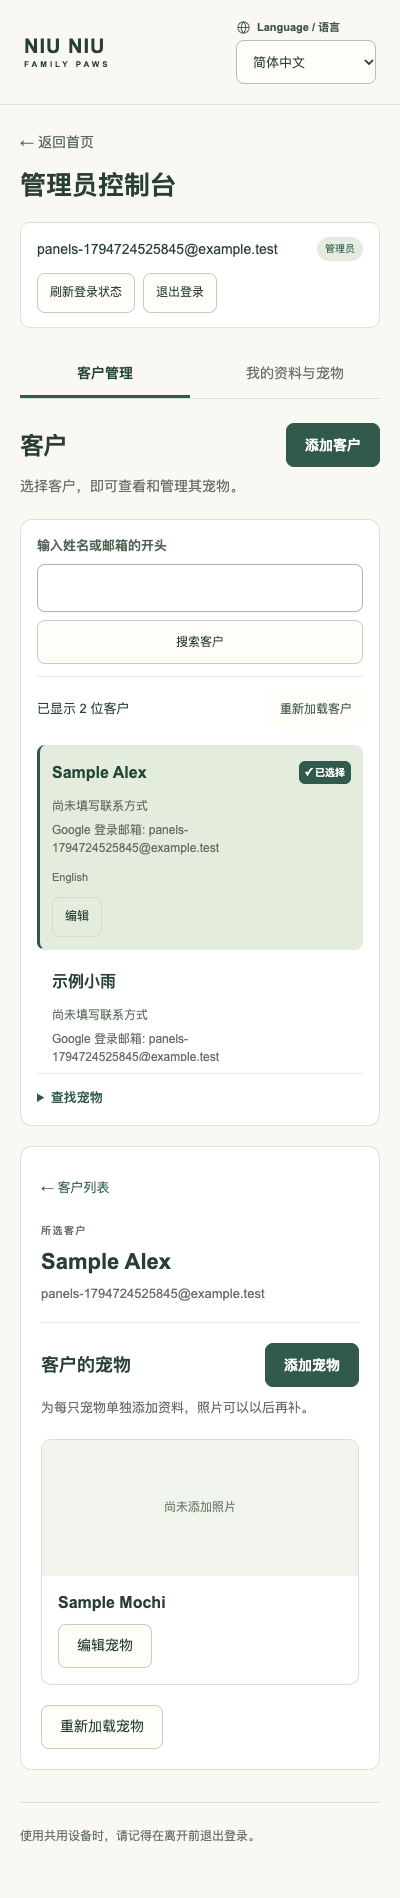
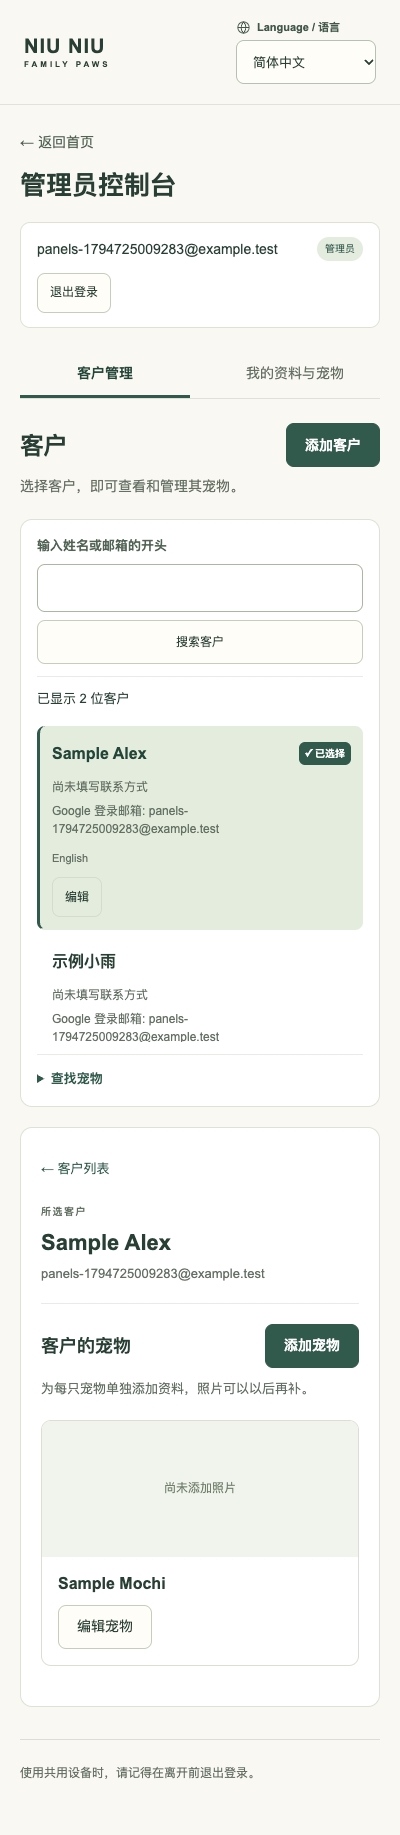
Remove routine reload controls (#31)

diff --git a/apps/web/src/customers.tsx b/apps/web/src/customers.tsx
@@ -11,9 +11,9 @@ const en = {
   title: 'Customers', intro: 'Choose a customer to view and manage their pets.',
   add: 'Add customer', edit: 'Edit customer', name: 'Customer name', email: 'Email (optional)', phone: 'Phone (optional)', language: 'Preferred language',
   save: 'Save customer', cancel: 'Cancel', loading: 'Loading customers…', saving: 'Saving…', empty: 'No customers yet. Add your first customer to get started.',
-  more: 'Load more customers', reload: 'Reload customers', saved: 'Customer saved.', error: 'Couldn’t load or save customers. Please try again.',
-  conflict: 'This record changed since you opened it. Your edits are kept below. Reload customers, compare the latest record, and reopen it before saving.',
-  forbidden: 'Administrator access is required. Refresh your session above or sign in again.',
+  more: 'Load more customers', reload: 'Try again', saved: 'Customer saved.', error: 'Couldn’t load or save customers. Please try again.',
+  conflict: 'This record changed since you opened it. Your edits are kept below. Choose Try again, compare the latest record, and reopen it before saving.',
+  forbidden: 'Administrator access is required. Sign out and sign in again.',
   invalid: 'Check the name, email, and field lengths, then try again.', retry: 'Retry save', noContact: 'No contact details added',
   search: 'Search customers', searchHint: 'Customer name or email (starts with)', noMatches: 'No matching customers.', loginEmail: 'Google sign-in email',
 };
@@ -21,9 +21,9 @@ const zh: typeof en = {
   title: '客户', intro: '选择客户，即可查看和管理其宠物。',
   add: '添加客户', edit: '编辑客户', name: '客户姓名', email: '邮箱（选填）', phone: '电话（选填）', language: '首选语言',
   save: '保存客户', cancel: '取消', loading: '正在加载客户…', saving: '正在保存…', empty: '暂无客户。请添加第一位客户。',
-  more: '加载更多客户', reload: '重新加载客户', saved: '客户已保存。', error: '未能加载或保存客户，请重试。',
-  conflict: '客户资料已在其他页面更新，您还没保存的修改仍保留在这里。请重新加载客户，核对最新资料后重新打开编辑。',
-  forbidden: '需要管理员权限。请刷新上方的登录状态，或重新登录。',
+  more: '加载更多客户', reload: '重试', saved: '客户已保存。', error: '未能加载或保存客户，请重试。',
+  conflict: '客户资料已在其他页面更新，您还没保存的修改仍保留在这里。请点击“重试”，核对最新资料后重新打开编辑。',
+  forbidden: '需要管理员权限。请退出后重新登录。',
   invalid: '请检查姓名、邮箱格式和内容长度，然后重试。', retry: '重试保存', noContact: '尚未填写联系方式',
   search: '搜索客户', searchHint: '输入姓名或邮箱的开头', noMatches: '没有找到匹配的客户。', loginEmail: 'Google 登录邮箱',
 };
@@ -136,7 +136,7 @@ export default function Customers({ refreshKey = 0 }: { refreshKey?: number }) {
       </fieldset>
       <div className="portal-actions"><button className="button" disabled={saving || error === 'conflict' || error === 'forbidden'} type="submit">{saving ? t.saving : uncertain ? t.retry : t.save}</button><button className="language" type="button" disabled={saving || uncertain} onClick={() => { if (confirmDiscardChanges(i18n.language, form.current)) { setEditor(null); setError(null); } }}>{t.cancel}</button></div>
     </form>}
-    <div className="customer-heading directory-toolbar"><p>{loaded && !items.length && !loading ? activeSearch.trim() ? t.noMatches : t.empty : loaded ? (chinese ? `已显示 ${items.length} 位客户` : `${items.length} customers shown`) : ''}</p><button className="language" disabled={loading || saving} onClick={() => void load()}>{t.reload}</button></div>
+    <div className="customer-heading directory-toolbar"><p>{loaded && !items.length && !loading ? activeSearch.trim() ? t.noMatches : t.empty : loaded ? (chinese ? `已显示 ${items.length} 位客户` : `${items.length} customers shown`) : ''}</p>{(error === 'error' || error === 'conflict') && !uncertain && <button className="language" disabled={loading || saving} onClick={() => void load()}>{t.reload}</button>}</div>
     <ul className="customer-list">{items.map(customer => <li key={customer.id} className={petCustomer?.id === customer.id ? 'selected-customer' : undefined}><div><h3><button className="customer-select" aria-label={customer.name} aria-pressed={petCustomer?.id === customer.id} onClick={() => choosePets(customer)}><span className="customer-name">{customer.name}</span>{petCustomer?.id === customer.id && <span className="customer-selected-label" aria-hidden="true">✓ {chinese ? '已选择' : 'Selected'}</span>}</button></h3><p>{customer.email || customer.phone ? [customer.email, customer.phone].filter(Boolean).join(' · ') : t.noContact}</p>{customer.loginEmail && <p>{t.loginEmail}: {customer.loginEmail}</p>}<span className="customer-language" lang={customer.language === 'zh' ? 'zh-Hans' : 'en'}>{customer.language === 'zh' ? '简体中文' : 'English'}</span></div><div className="customer-row-actions"><button className="language" aria-label={`${t.edit}: ${customer.name}`} disabled={saving || uncertain} onClick={() => open(customer)}>{chinese ? '编辑' : 'Edit'}</button>{!customer.loginEmail&&<button className="language" aria-label={`${chinese ? '关联 Google 账号' : 'Link Google account'}: ${customer.name}`} onClick={()=>setLinkCustomer(customer.id)}>{chinese?'关联 Google':'Link Google'}</button>}</div></li>)}</ul>
     {linkCustomer&&<AdminAccountLink key={linkCustomer} customerId={linkCustomer} onLinked={()=>void load()}/>}
     <details className="pet-search-tools"><summary>{chinese ? '查找宠物' : 'Find a pet'}</summary><PetSearch onChoose={choosePets}/></details>

diff --git a/apps/web/src/pets.tsx b/apps/web/src/pets.tsx
@@ -9,10 +9,10 @@ const en = {
   title: 'Pets', own: 'My pets', intro: 'Each pet has its own profile. You can add a photo now or later.',
   add: 'Add pet', edit: 'Edit pet', name: 'Pet name', photo: 'Pet photo (optional)', hint: 'JPEG, PNG or WebP, up to 3 MB and 16 megapixels. Photos are private to the owner and administrators.',
   noPhoto: 'Photo not added yet', save: 'Save pet', retry: 'Retry pet save', cancel: 'Cancel', loading: 'Loading pets…', saving: 'Saving pet…',
-  empty: 'No pets yet. Add your first pet.', more: 'Load more pets', reload: 'Reload pets', saved: 'Pet saved.',
+  empty: 'No pets yet. Add your first pet.', more: 'Load more pets', reload: 'Try again', saved: 'Pet saved.',
   error: 'Couldn’t load or save pets. Please try again.', invalid: 'Enter a pet name (up to 120 characters) and choose a valid photo within the limits.',
-  forbidden: 'You don’t have access to these pets. Refresh your session above or sign in again.',
-  conflict: 'This pet changed elsewhere. Your edits are kept. Reload pets and reopen the latest pet before saving.',
+  forbidden: 'You don’t have access to these pets. Sign out and sign in again.',
+  conflict: 'This pet changed elsewhere. Your edits are kept. Choose Try again and reopen the latest pet before saving.',
   photoError: 'Couldn’t load this private photo.', photoRetry: 'Retry photo', selected: 'New photo selected. Save the pet to upload it.',
   search: 'Search pet names', searchHint: 'Start of pet name', noMatches: 'No matching pets.', customer: 'Customer', manage: 'Manage these pets',
 };
@@ -20,10 +20,10 @@ const zh: typeof en = {
   title: '宠物', own: '我的宠物', intro: '为每只宠物单独添加资料，照片可以以后再补。',
   add: '添加宠物', edit: '编辑宠物', name: '宠物名字', photo: '宠物照片（选填）', hint: '支持 JPEG、PNG 或 WebP，最大 3 MB、1600 万像素。仅宠物主人和管理员可查看照片。',
   noPhoto: '尚未添加照片', save: '保存宠物', retry: '重试保存宠物', cancel: '取消', loading: '正在加载宠物…', saving: '正在保存宠物…',
-  empty: '还没有添加宠物，先添加一只吧。', more: '加载更多宠物', reload: '重新加载宠物', saved: '宠物资料已保存。',
+  empty: '还没有添加宠物，先添加一只吧。', more: '加载更多宠物', reload: '重试', saved: '宠物资料已保存。',
   error: '宠物资料加载或保存失败，请重试。', invalid: '请填写宠物名字（最多 120 个字符），并检查照片格式和大小。',
-  forbidden: '暂时无法访问这些宠物的资料。请刷新上方的登录状态，或重新登录。',
-  conflict: '宠物资料已在其他页面更新，您还没保存的修改仍保留在这里。请重新加载宠物，再打开最新资料编辑。',
+  forbidden: '暂时无法访问这些宠物的资料。请退出后重新登录。',
+  conflict: '宠物资料已在其他页面更新，您还没保存的修改仍保留在这里。请点击“重试”，再打开最新资料编辑。',
   photoError: '照片加载失败。', photoRetry: '重新加载照片', selected: '已选好新照片，点击“保存宠物”后才会上传。',
   search: '搜索宠物名字', searchHint: '输入宠物名字的开头', noMatches: '没有找到符合条件的宠物。', customer: '客户', manage: '管理这些宠物',
 };
@@ -125,7 +125,7 @@ export default function Pets({ customerId, title }: { customerId: string; title?
     </form>}
     <div className="pet-grid">{items.map(pet => <article className="pet-card" key={pet.id}><PetPhoto pet={pet}/><div><h4>{pet.name}</h4><button className="language" aria-label={`${t.edit}: ${pet.name}`} disabled={blocked} onClick={() => open(pet)}>{t.edit}</button></div></article>)}</div>
     {loading ? <p role="status">{t.loading}</p> : !items.length && !error ? <p>{t.empty}</p> : null}
-    <div className="portal-actions"><button className="language" disabled={blocked || loading} onClick={() => void load()}>{t.reload}</button>{cursor && <button className="language" disabled={blocked || loading} onClick={() => void load(cursor)}>{t.more}</button>}</div>
+    {(((error === 'error' || error === 'conflict') && !uncertain) || cursor) && <div className="portal-actions">{(error === 'error' || error === 'conflict') && !uncertain && <button className="language" disabled={blocked || loading} onClick={() => void load()}>{t.reload}</button>}{cursor && <button className="language" disabled={blocked || loading} onClick={() => void load(cursor)}>{t.more}</button>}</div>}
   </section>;
 }
 export function PetSearch({ onChoose }: { onChoose: (customer: { id: string; name: string; loginEmail: string | null }) => void }) {

diff --git a/apps/web/src/portal.tsx b/apps/web/src/portal.tsx
@@ -15,8 +15,8 @@ const en = {
   home: 'Back to website', label: 'YOUR FAMILY PAWS ACCOUNT', title: 'Welcome to Family Paws',
   intro: 'Sign in with your Google account to continue.',
   login: 'Continue with Google', logout: 'Sign out', checking: 'Checking your access…', busy: 'Please wait…',
-  denied: 'Verified account required', deniedBody: 'We could not verify access for this account. Refresh access or sign out and try your Google account again.',
-  refresh: 'Refresh session', error: 'Something went wrong. Please try again.', popup: 'Allow the Google sign-in window, then try again.', network: 'Check your connection and try again.',
+  denied: 'Verified account required', deniedBody: 'We could not verify access for this account. Try again or sign out and try your Google account again.',
+  refresh: 'Try again', error: 'Something went wrong. Please try again.', popup: 'Allow the Google sign-in window, then try again.', network: 'Check your connection and try again.',
   dashboard: 'Administrator dashboard', welcome: 'Welcome back.', account: 'Your account', role: 'Administrator',
   ready: 'Manage customers or update your own profile and pets.',
   workspace: 'Workspace', manage: 'Customer management', personal: 'My profile & pets', personalTitle: 'My profile & pets',
@@ -30,8 +30,8 @@ const zh: typeof en = {
   home: '返回首页', label: 'FAMILY PAWS 账号', title: '欢迎来到 Family Paws',
   intro: '使用您的 Google 账号登录，即可继续。',
   login: '使用 Google 登录', logout: '退出登录', checking: '正在确认登录状态…', busy: '请稍候…',
-  denied: '请验证您的账号', deniedBody: '暂时无法确认您的登录状态。请刷新登录状态，或退出后重新登录。',
-  refresh: '刷新登录状态', error: '操作未完成，请重试。', popup: '请允许弹出 Google 登录窗口，然后重试。', network: '请检查网络连接后重试。',
+  denied: '请验证您的账号', deniedBody: '暂时无法确认您的登录状态。请重试，或退出后重新登录。',
+  refresh: '重试', error: '操作未完成，请重试。', popup: '请允许弹出 Google 登录窗口，然后重试。', network: '请检查网络连接后重试。',
   dashboard: '管理员控制台', welcome: '欢迎回来。', account: '您的账号', role: '管理员',
   ready: '管理客户资料，或打开自己的资料与宠物。',
   workspace: '切换页面', manage: '客户管理', personal: '我的资料与宠物', personalTitle: '我的资料与宠物',
@@ -97,7 +97,7 @@ export default function Portal({ onLanguageChange }: { onLanguageChange: (langua
           {access === 'denied' && <h2>{t.denied}</h2>}
           <div className="portal-identity-row"><p className="portal-account"><span>{t.account}</span><strong>{user?.email}</strong></p>{access !== 'denied' && <span className="portal-role">{access === 'admin' ? t.role : access === 'employee' ? t.employeeRole : t.customerRole}</span>}</div>
           {access !== 'admin' && <p className="customer-intro">{access === 'denied' ? t.deniedBody : access === 'employee' ? t.employeeNext : t.customerNext}</p>}
-          <div className="portal-actions session-actions"><button className="language" disabled={busy} onClick={() => void run(() => verify(auth.currentUser, true))}>{t.refresh}</button><button className="language" disabled={busy} onClick={() => { if (confirmDiscardChanges(i18n.language)) void run(() => signOut(auth)); }}>{t.logout}</button></div>
+          <div className="portal-actions session-actions">{access === 'denied' && <button className="language" disabled={busy} onClick={() => void run(() => verify(auth.currentUser, true))}>{t.refresh}</button>}<button className="language" disabled={busy} onClick={() => { if (confirmDiscardChanges(i18n.language)) void run(() => signOut(auth)); }}>{t.logout}</button></div>
         </>}
         {error && <p role="alert">{t[error]}</p>}
       </div>

diff --git a/apps/web/src/profile.tsx b/apps/web/src/profile.tsx
@@ -14,9 +14,9 @@ const en = {
   loginEmail: 'Google sign-in email', identity: 'This profile belongs to your Google account. Your sign-in email can’t be changed here.',
   existing: 'Already have a customer record? An administrator needs to verify it before linking your account.',
   save: 'Save profile', retry: 'Retry profile save', saving: 'Saving profile…', saved: 'Your profile is saved.',
-  loading: 'Loading your profile…', reload: 'Reload saved profile', error: 'Couldn’t load or save your profile. Please try again.',
-  conflict: 'Your profile was updated elsewhere. Your edits are still here. Reload the saved profile to continue; this will replace your unsaved edits.',
-  forbidden: 'We couldn’t verify access to your profile. Refresh your session above or sign in again.',
+  loading: 'Loading your profile…', reload: 'Try again', error: 'Couldn’t load or save your profile. Please try again.',
+  conflict: 'Your profile was updated elsewhere. Your edits are still here. Choose Try again to get the saved profile; this will replace your unsaved edits.',
+  forbidden: 'We couldn’t verify access to your profile. Sign out and sign in again.',
   invalid: 'Enter your name using 120 characters or fewer.',
 };
 const zh: typeof en = {
@@ -25,9 +25,9 @@ const zh: typeof en = {
   loginEmail: 'Google 登录邮箱', identity: '这份资料与您的 Google 账号关联，登录邮箱不能在这里修改。',
   existing: '之前已经登记过客户资料？请联系管理员核实身份后再关联账号。',
   save: '保存我的资料', retry: '重试保存我的资料', saving: '正在保存资料…', saved: '您的资料已保存。',
-  loading: '正在加载资料…', reload: '重新加载资料', error: '资料加载或保存失败，请重试。',
-  conflict: '资料已在其他页面更新，您还没保存的修改仍保留在这里。请重新加载资料后再编辑；重新加载会替换未保存的修改。',
-  forbidden: '暂时无法访问您的资料。请刷新上方的登录状态，或重新登录。',
+  loading: '正在加载资料…', reload: '重试', error: '资料加载或保存失败，请重试。',
+  conflict: '资料已在其他页面更新，您还没保存的修改仍保留在这里。请点击“重试”获取最新资料后再编辑；重新加载会替换未保存的修改。',
+  forbidden: '暂时无法访问您的资料。请退出后重新登录。',
   invalid: '请填写姓名，最多 120 个字符。',
 };
 class ProfileError extends Error { constructor(public status: number) { super('Profile request failed'); } }
@@ -110,6 +110,6 @@ export default function Profile({ onSaved }: { onSaved: () => void }) {
       </form>
       {profile && <Pets key={profile.id} customerId={profile.id}/>}
     </>}
-    <button className="language" disabled={loading || saving || uncertain} onClick={() => { if (confirmDiscardChanges(i18n.language, form.current)) void load(); }}>{t.reload}</button>
+    {(error === 'error' || error === 'conflict') && !uncertain && <button className="language" disabled={loading || saving || uncertain} onClick={() => { if (confirmDiscardChanges(i18n.language, form.current)) void load(); }}>{t.reload}</button>}
   </section>;
 }

diff --git a/tests/browser/customer-panels.spec.ts b/tests/browser/customer-panels.spec.ts
@@ -7,7 +7,9 @@ test('customer list selects the correct pets in bilingual responsive panels and 
   await request.post('http://127.0.0.1:9099/identitytoolkit.googleapis.com/v1/projects/demo-niu-niu/accounts:update',{headers:{Authorization:'Bearer owner'},data:{localId,emailVerified:true,customAttributes:JSON.stringify({admin:true})}});
   const customers=['Sample Alex','示例小雨'].map((name,index)=>({id:`10000000-0000-4000-8000-00000000004${index}`,name,email:'',phone:'',language:'en',loginEmail:email,version:1}));
   await page.route('**/api/customers?*',route=>route.fulfill({json:{items:customers,nextCursor:null}}));
+  let failPetLoad=true;
   await page.route('**/api/customers/*/pets',route=>{
+    if(failPetLoad){return route.fulfill({status:503,json:{error:'unavailable'}});}
     const customerId=route.request().url().split('/').at(-2)!;
     return route.fulfill({json:{items:[{id:'10000000-0000-4000-8000-000000000050',customerId,name:customerId===customers[0].id?'Sample Mochi':'示例豆豆',photo:null,version:1}],nextCursor:null}});
   });
@@ -18,6 +20,7 @@ test('customer list selects the correct pets in bilingual responsive panels and 
     const {signInWithEmailAndPassword}=await import('/node_modules/.vite/deps/firebase_auth.js');
     await signInWithEmailAndPassword(auth,email,'emulator-only-password');
   },{email});
+  await expect(page.getByRole('button',{name:/Reload|Refresh session/})).toHaveCount(0);
   const left=page.getByRole('region',{name:'Customer list',exact:true});
   const right=page.getByRole('region',{name:'Selected customer pets',exact:true});
   await expect(right.getByText('Select a customer from the list to view and manage their pets.')).toBeVisible();
@@ -30,7 +33,12 @@ test('customer list selects the correct pets in bilingual responsive panels and 
   // Clicking the contact area, outside the name and action buttons, selects the row.
   await alexRow.click({position:{x:24,y:90}});
   await expect(left.getByRole('button',{name:'Sample Alex',exact:true})).toHaveAttribute('aria-pressed','true');
+  await expect(right.getByRole('button',{name:'Try again',exact:true})).toBeVisible();
+  failPetLoad=false;
+  await right.getByRole('button',{name:'Try again',exact:true}).click();
+  await expect(right.getByRole('button',{name:'Try again',exact:true})).toHaveCount(0);
   await expect(right.getByRole('heading',{name:'Sample Mochi',exact:true})).toBeVisible();
+  await expect(page.getByRole('button',{name:/Reload|Refresh session/})).toHaveCount(0);
   await expect(alexRow.getByText('✓ Selected',{exact:true})).toBeVisible();
   await otherRow.hover();
   await expect(left.getByRole('button',{name:'Sample Alex',exact:true})).toHaveAttribute('aria-pressed','true');

diff --git a/tests/browser/workspace.spec.ts b/tests/browser/workspace.spec.ts
@@ -61,8 +61,7 @@ test('administrator switches to own profile and pets without losing drafts or by
   await page.getByRole('button',{name:'Add pet',exact:true}).click();
   await expect(page.getByRole('textbox',{name:'Pet name',exact:true})).toHaveValue('');
   await page.getByRole('textbox',{name:'Pet name',exact:true}).fill('Unsaved pet draft');
-  pending = dismissDiscard();
-  await page.getByRole('button',{name:'Reload saved profile',exact:true}).click(); await pending;
+  await expect(page.getByRole('button',{name:/Reload|Refresh session/})).toHaveCount(0);
   await expect(page.getByRole('textbox',{name:'Your name',exact:true})).toHaveValue('Unsaved personal draft');
   pending = dismissDiscard();
   await page.getByRole('button',{name:'Sign out',exact:true}).click(); await pending;
@@ -85,7 +84,7 @@ test('administrator switches to own profile and pets without losing drafts or by
   await expect(page.getByRole('textbox',{name:'Customer name',exact:true})).toHaveValue('');
   await page.getByRole('textbox',{name:'Customer name',exact:true}).fill('Unsaved directory draft');
   await page.getByRole('button',{name:'My profile & pets',exact:true}).click();
-  await page.getByRole('button',{name:'Refresh session',exact:true}).click();
+  await page.evaluate(() => document.dispatchEvent(new Event('visibilitychange')));
   await expect(page.getByRole('button',{name:'My profile & pets',exact:true})).toHaveAttribute('aria-pressed','true');
   await expect(page.getByRole('textbox',{name:'Pet name',exact:true})).toHaveValue('Unsaved pet draft');
   await page.getByRole('combobox',{name:'Language / 语言',exact:true}).selectOption('zh');
@@ -96,7 +95,7 @@ test('administrator switches to own profile and pets without losing drafts or by
   await page.locator('header').scrollIntoViewIfNeeded();
   await page.screenshot({path:'test-results/ui-portal-mobile-zh.png'});
   await claims(false);
-  await page.getByRole('button',{name:'刷新登录状态',exact:true}).click();
+  await page.evaluate(() => document.dispatchEvent(new Event('visibilitychange')));
   await expect(page.getByRole('heading',{name:'客户账号',exact:true})).toBeVisible();
   await expect(page.getByRole('region',{name:'切换页面',exact:true})).toHaveCount(0);
   await expect(page.getByRole('textbox',{name:'客户姓名',exact:true})).toHaveCount(0);

diff --git a/tests/browser/profile.spec.ts b/tests/browser/profile.spec.ts
@@ -28,7 +28,7 @@ test('customer saves their own profile, keeps edits during access refresh, and r
   await expect(page.getByRole('heading',{name:'My profile',exact:true})).toBeVisible();
   await expect(page.getByRole('button',{name:'Add customer',exact:true})).toHaveCount(0);
   await page.getByRole('textbox',{name:'Your name',exact:true}).fill('王小明');
-  await page.getByRole('button',{name:'Refresh session',exact:true}).click();
+  await page.evaluate(() => document.dispatchEvent(new Event('visibilitychange')));
   await expect(page.getByRole('textbox',{name:'Your name',exact:true})).toHaveValue('王小明');
   await page.getByRole('combobox',{name:'Your preferred language',exact:true}).selectOption('zh');
   await page.getByRole('combobox',{name:'Language / 语言',exact:true}).selectOption('zh');

diff --git a/tests/browser/admin.spec.ts b/tests/browser/admin.spec.ts
@@ -36,7 +36,7 @@ test('only verified admins see dashboard; sign-out clears access', async ({page,
   const update=async (claims:object)=>{
     const response=await request.post('http://127.0.0.1:9099/identitytoolkit.googleapis.com/v1/projects/demo-niu-niu/accounts:update',{headers:{Authorization:'Bearer owner'},data:{localId,emailVerified:true,customAttributes:JSON.stringify(claims)}});
     expect(response.ok(),await response.text()).toBe(true);
-    await page.getByRole('button',{name:'Refresh session'}).click();
+    await page.evaluate(() => document.dispatchEvent(new Event('visibilitychange')));
   };
   await update({admin:'true'});
   await expect(page.getByRole('heading',{name:'Customer account',exact:true})).toBeVisible();

diff --git a/docs/business-owner-guide.md b/docs/business-owner-guide.md
@@ -33,7 +33,7 @@ Adding a customer in the administrator directory saves contact information. It d
 
 ## Saving your own profile
 
-Administrators first choose **My profile & pets** in **Workspace**. Choose **Customer management** to return to the directory. Both pages use the same Google login and existing profile/pet records. Switching pages keeps unsaved edits during the current session; reloading the website starts in customer management and discards unsaved edits. Saving still requires the usual Save buttons. Ordinary customers go straight to their own profile.
+Administrators first choose **My profile & pets** in **Workspace**. Choose **Customer management** to return to the directory. Both pages use the same Google login and existing profile/pet records. Switching pages keeps unsaved edits during the current session; reloading the website starts in customer management and asks before discarding unsaved edits. Saving still requires the usual Save buttons. Ordinary customers go straight to their own profile.
 
 管理员先在“切换页面”中选择“我的资料与宠物”，即可管理自己的资料。点击“客户管理”返回客户目录。两页共用同一个 Google 账号和已有资料，不必重复注册。当前会话内切换页面会保留未保存的修改；刷新网站会回到客户管理，并放弃未保存的修改。修改仍需点击相应“保存”按钮才会保存。普通客户登录后直接进入自己的资料。
 
@@ -41,9 +41,9 @@ To change the website language, use **Language / 语言** at the top of any page
 
 切换网站语言时，在页面顶部的 **Language / 语言** 中选择 **English** 或 **简体中文**。浏览器会记住您的选择。这只会切换界面语言，不会修改个人资料中保存的语言偏好。
 
-Customers sign in with their own Google account, enter **Your name** and **Your preferred language** under **My profile**, then choose **Save profile**. Later they can update these fields or reload their saved profile. Each Google identity accesses only its own profile. Administrators and staff also have a personal profile panel; it uses the same canonical record across their roles.
+Customers sign in with their own Google account, enter **Your name** and **Your preferred language** under **My profile**, then choose **Save profile**. Later they can update these fields and save again. Each Google identity accesses only its own profile. Administrators and staff also have a personal profile panel; it uses the same canonical record across their roles.
 
-客户使用自己的 Google 账号登录，在“我的资料”中填写“您的姓名”和“您的首选语言”，再点击“保存我的资料”。以后可在这里修改或重新加载资料。每个 Google 账号只能访问自己的个人资料；管理员和员工也可填写自己的资料，不必另建账号。
+客户使用自己的 Google 账号登录，在“我的资料”中填写“您的姓名”和“您的首选语言”，再点击“保存我的资料”。以后可在这里修改并再次保存资料。每个 Google 账号只能访问自己的个人资料；管理员和员工也可填写自己的资料，不必另建账号。
 
 The administrator directory shows these registered profiles automatically. Administrator edits and customer edits refer to the same record. Existing administrator-created records are never automatically linked by matching names/emails. If another edit changes a record first, the app asks you to reload before saving again.
 
@@ -57,7 +57,7 @@ If the account already saved a separate profile, linking stops to protect both r
 
 ## Managing pets
 
-When an action would discard edits, the website asks first. Choose **Cancel** to keep editing, or **OK** to discard and continue. This applies to cancelling/replacing a form, reloading your profile, switching to another customer's pets, signing out and returning to the website. Changing the interface language or switching administrator workspaces keeps drafts. Use **Save** to store changes; reminders do not save automatically.
+When an action would discard edits, the website asks first. Choose **Cancel** to keep editing, or **OK** to discard and continue. This applies to cancelling/replacing a form, switching to another customer's pets, signing out and returning to the website. Changing the interface language or switching administrator workspaces keeps drafts. Use **Save** to store changes; reminders do not save automatically.
 
 操作会丢失未保存的修改时，网站会先询问。点击“取消”可留下继续编辑，点击“确定”会放弃修改并继续操作。切换界面语言或管理员工作页面会保留草稿。请点击“保存”才会正式保存；提醒不会自动保存。
 
@@ -84,3 +84,7 @@ Use the same GitHub project, `Fifiloveniuniu/niu-niu-family-paws`, and ask Codex
 In **Customer management**, the customer list appears on the left and the selected customer's pets appear on the right. Click a customer’s row to show their pets on the right. Hovering highlights the row; the selected customer has a green background, a left border and a Selected badge. Edit customer and account linking remain separate actions. On phones, selecting a customer brings their pets into view below the list. Use **← Customers** to return to the list. Search customers or pet names in the left panel; pet search results can also select a customer. Existing private photos remain visible only to the owner and authorized administrators. Switching customers asks before discarding unsaved pet edits.
 
 在“客户管理”中，左侧显示客户列表，右侧显示所选客户的宠物。点击客户行即可在右侧查看其宠物。鼠标悬停时会高亮；所选客户显示绿色背景、左侧边框和“已选择”标记。编辑客户和关联账号仍为独立操作。手机上，选择客户后会自动显示下方的宠物区域，点击“← 客户列表”可返回列表。左侧可按客户或宠物名字搜索，宠物搜索结果也可用于选择客户。已保存的照片仍仅供主人和获授权的管理员查看。切换客户前，如有未保存的宠物修改，系统会先询问。
+
+Routine reload buttons are removed. Customers and pets load when you open them, and lists update after saves. If loading fails, use **Try again** beside the error. Account access is rechecked when you return to the tab. Unsaved edits remain protected.
+
+日常页面不再显示重新加载按钮。打开资料时会自动加载，保存后列表会自动更新。加载失败时，点击错误旁的“重试”。返回浏览器标签页时会自动检查登录权限，未保存的修改仍受到保护。
